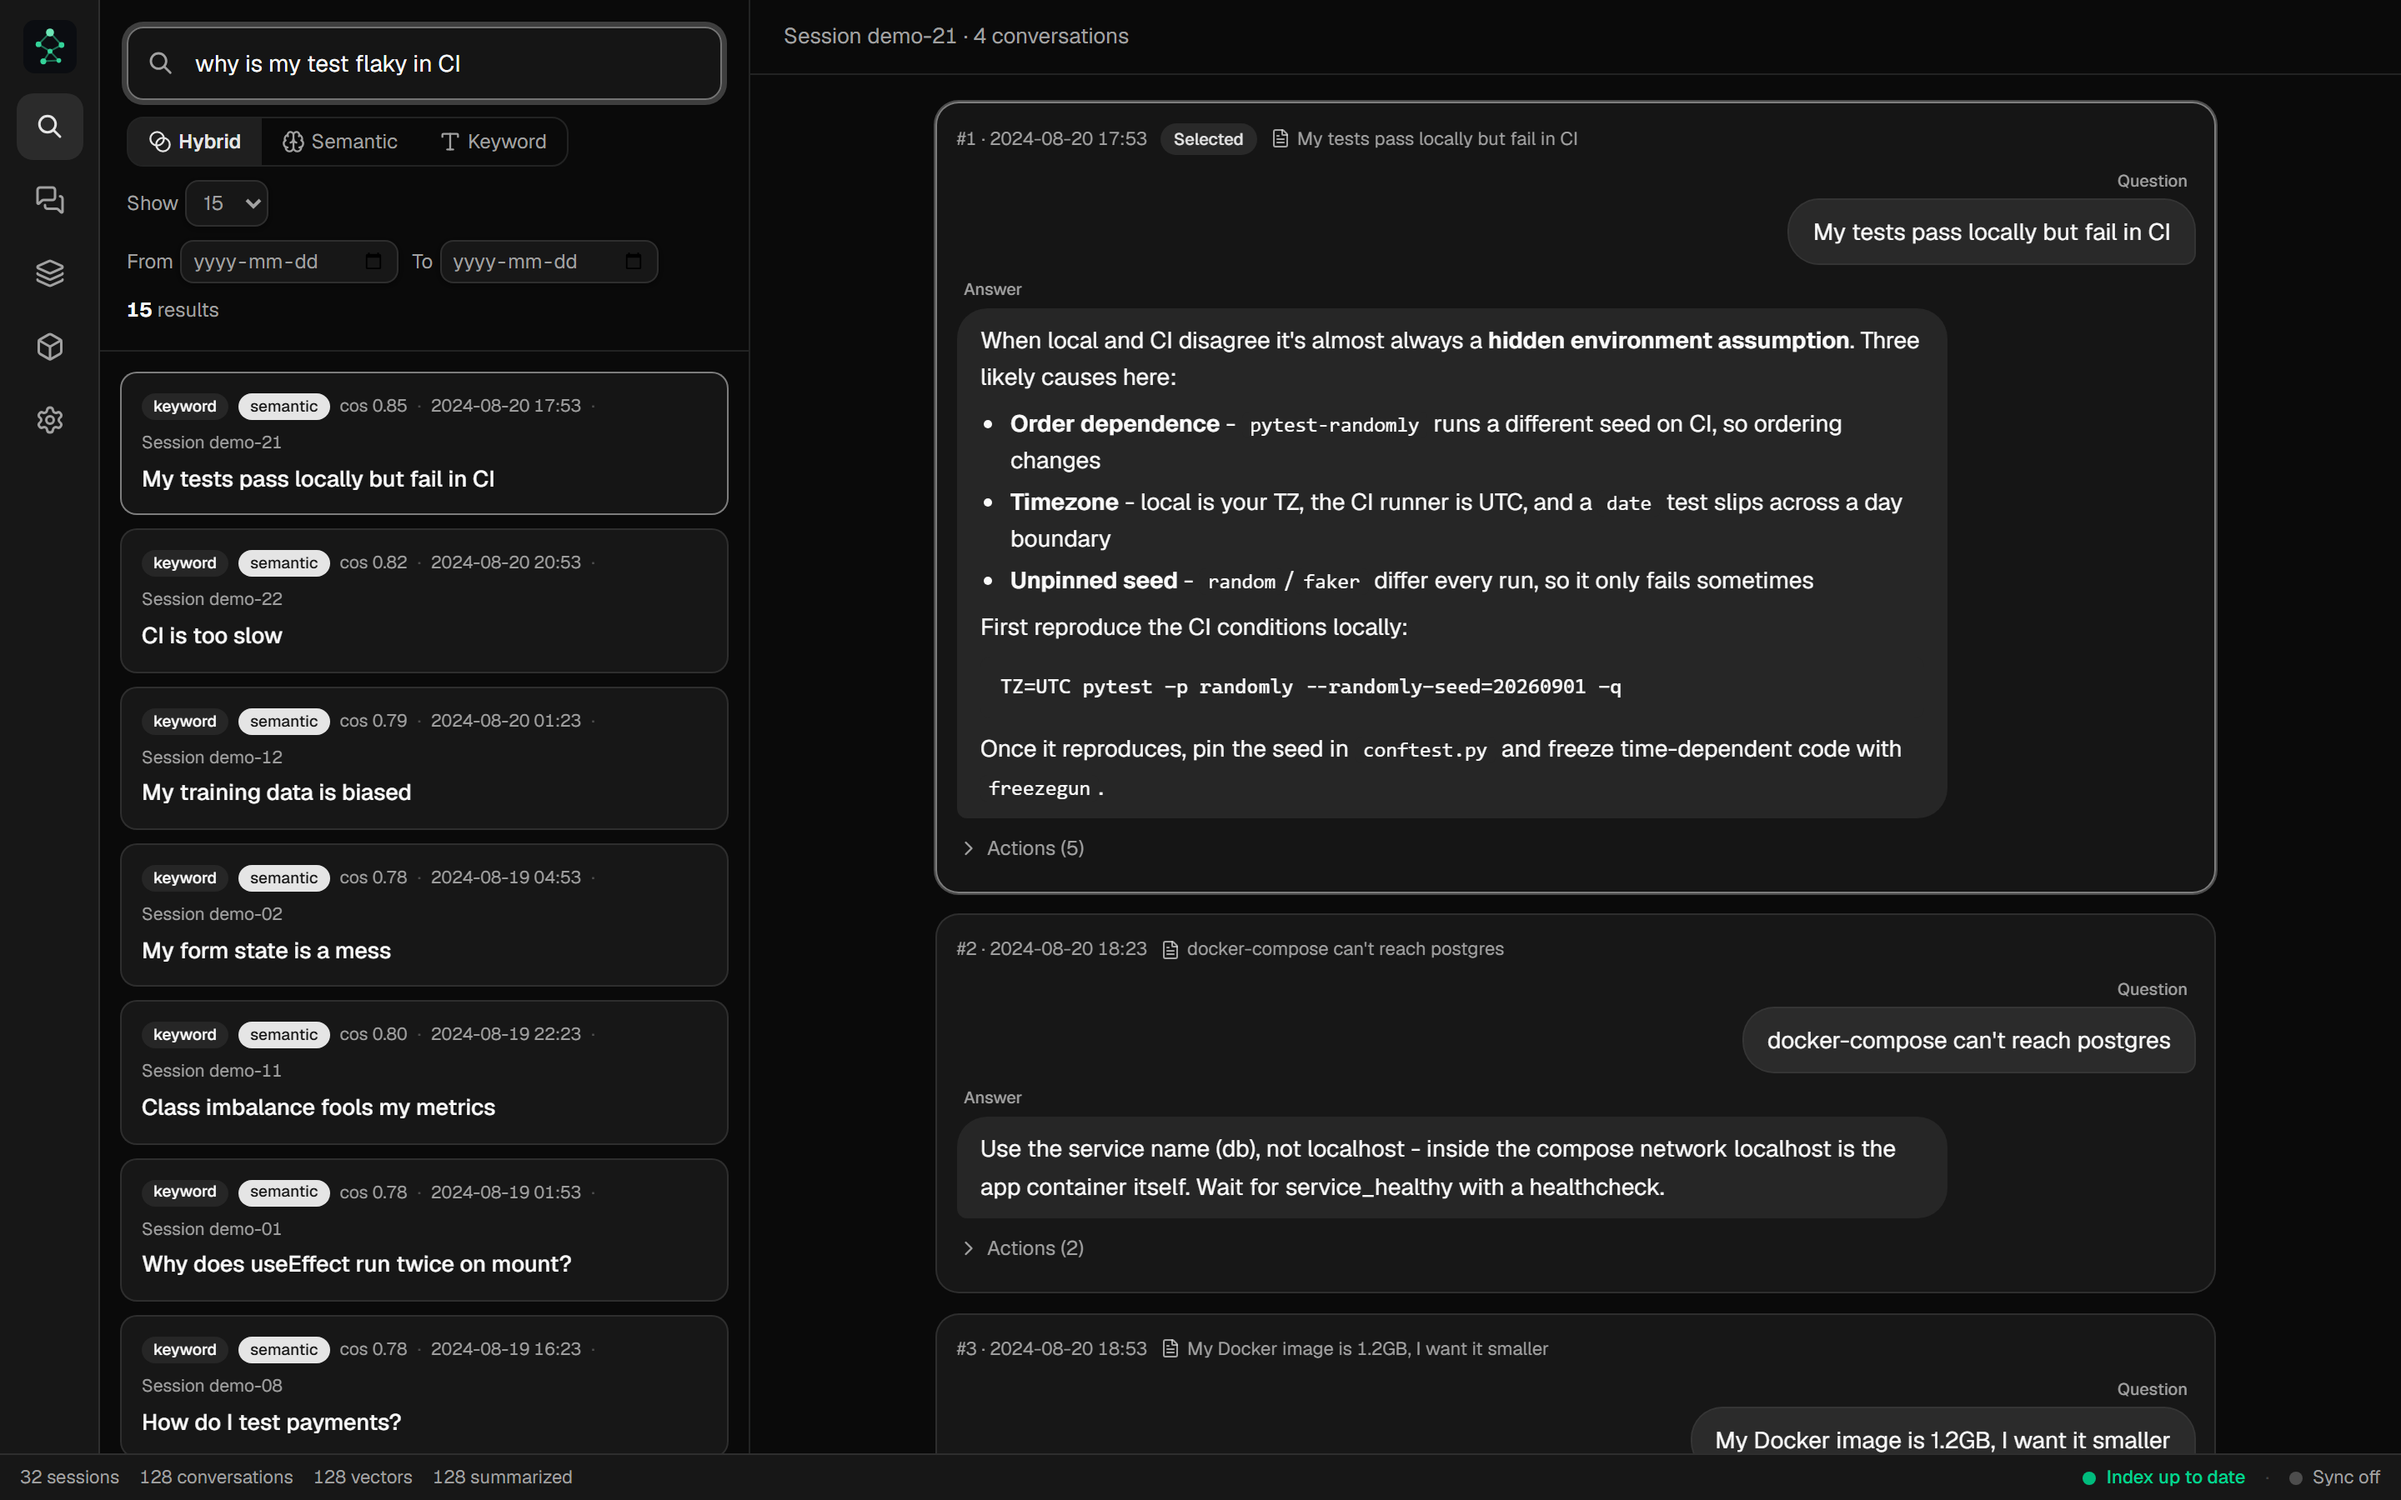
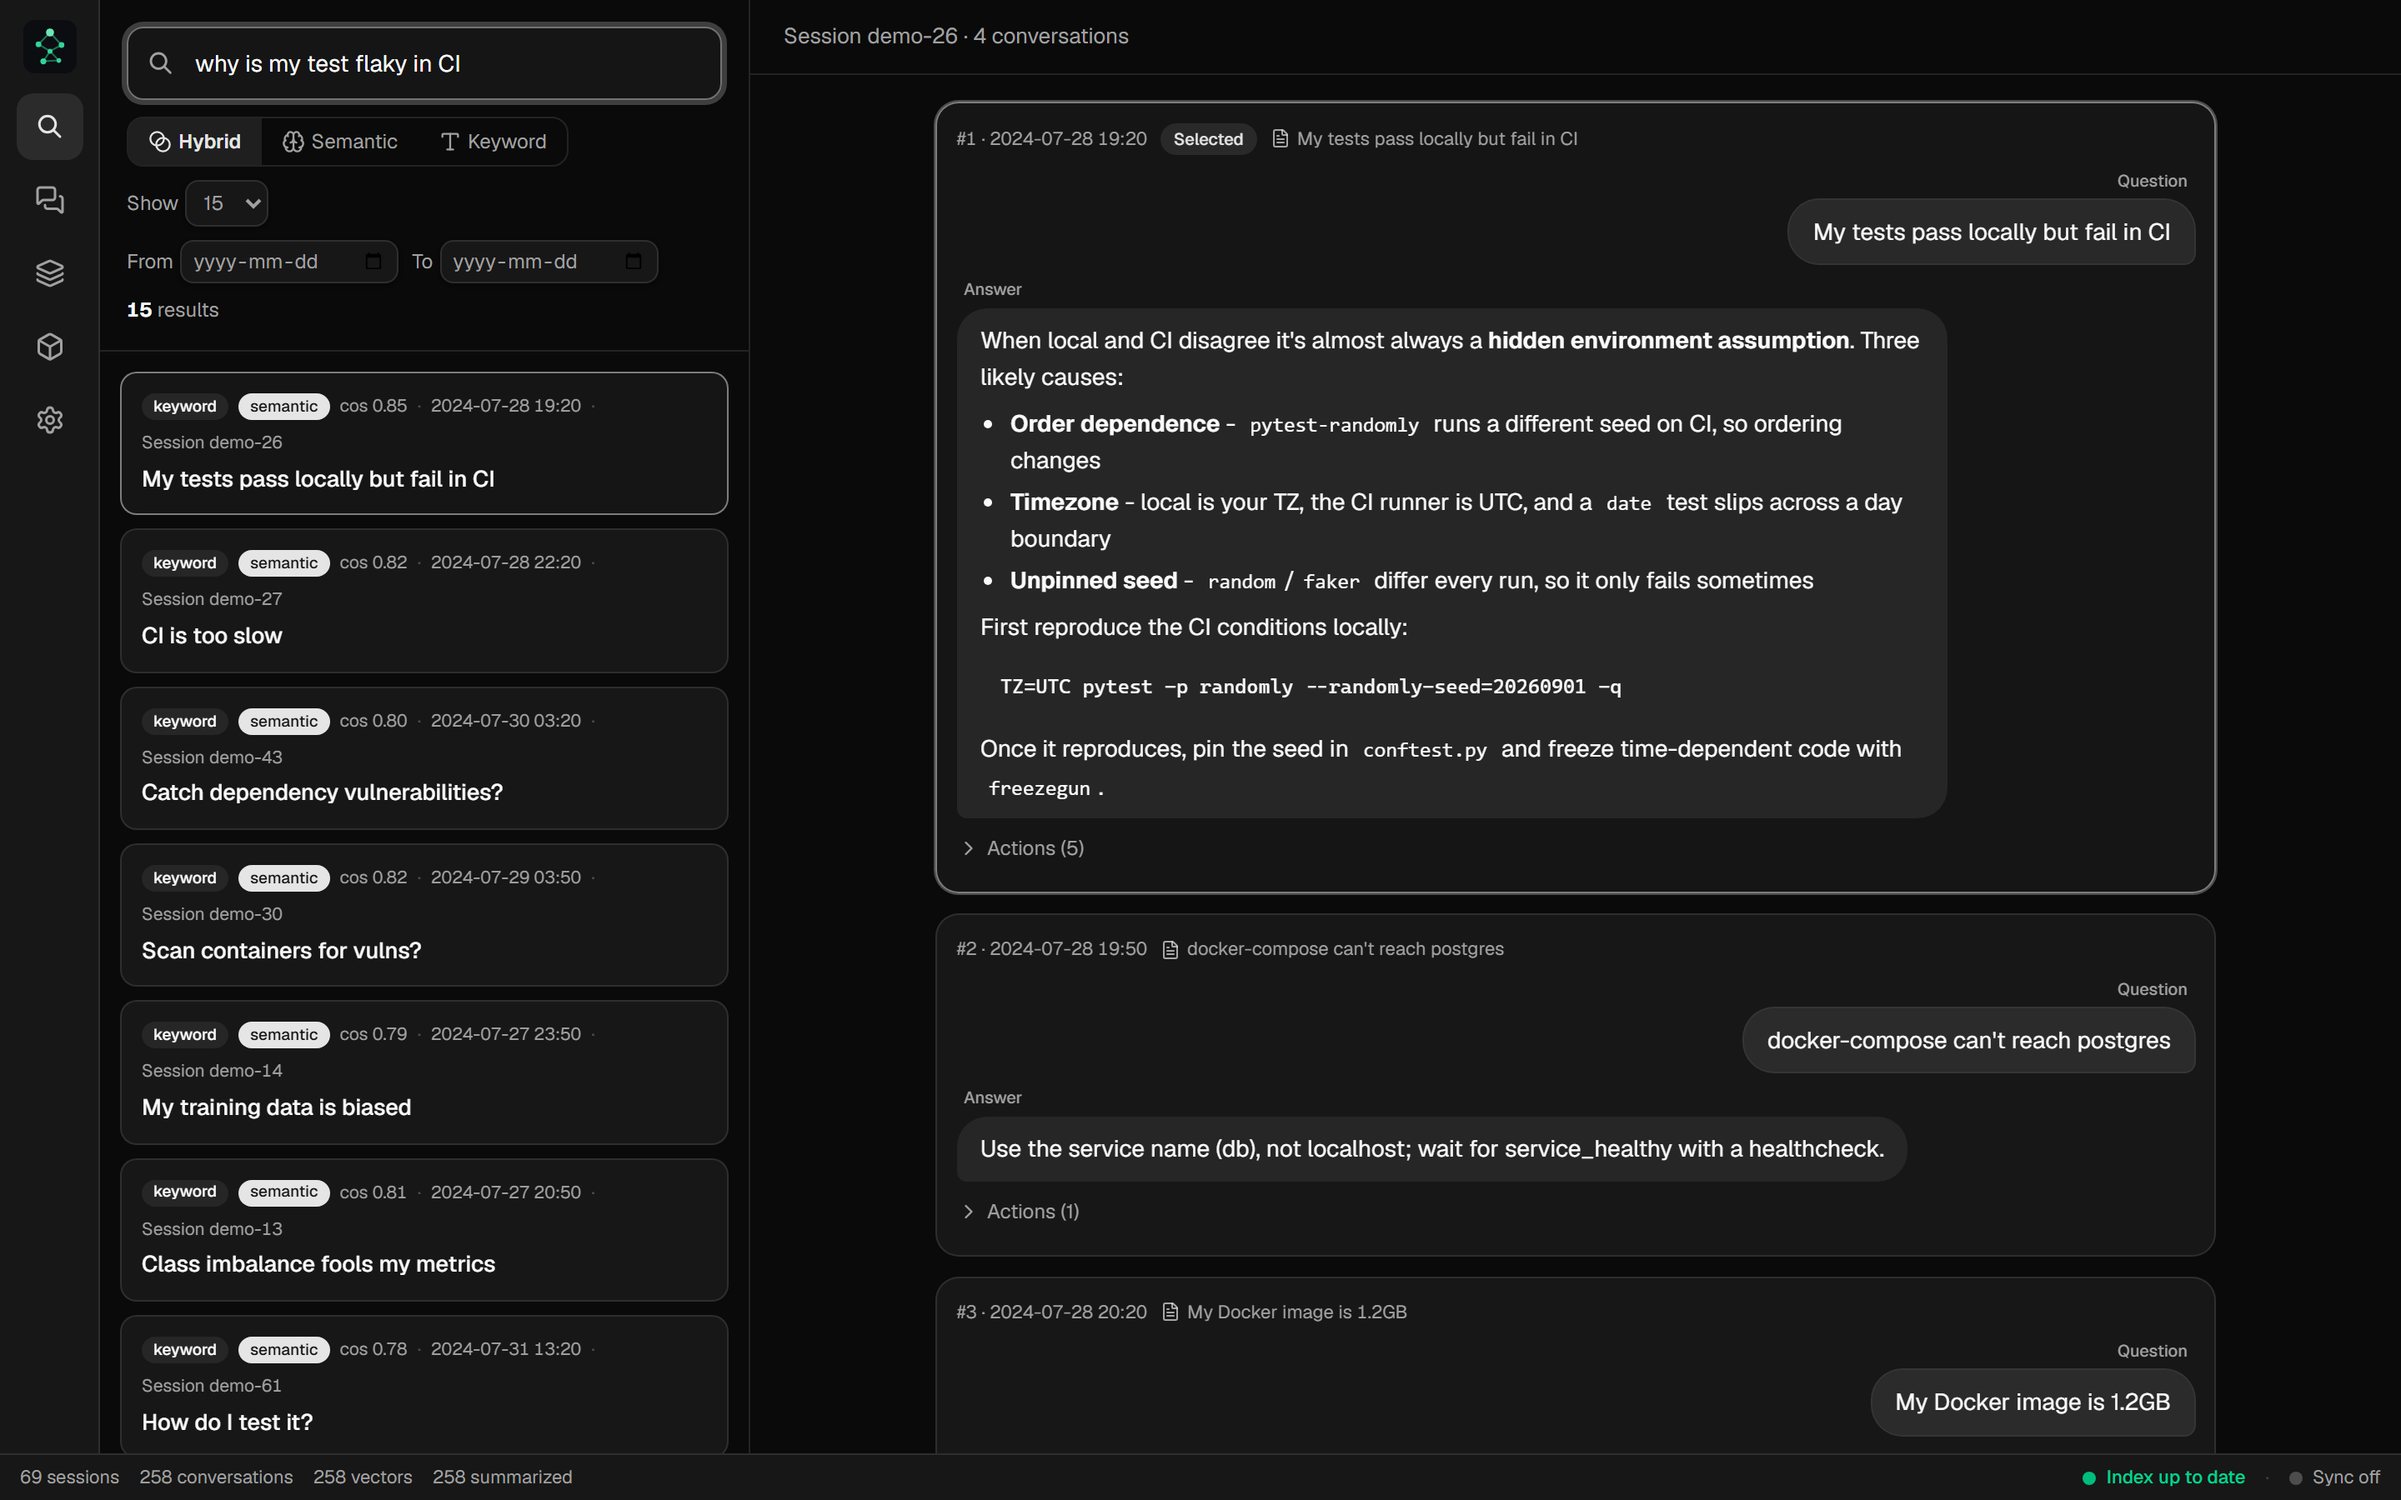
docs(readme): 영문 회전 GIF·스크린샷 + 설치 섹션 정리(한/영)
- 영문 지도를 회전 GIF(map.gif)로, 16개 프로젝트 258턴 데모(8군집) 재캡처
- 영문 검색·세션 스크린샷도 동일 데이터로 교체
- 설치 섹션을 플랫폼별로 깔끔하게 재구성 + macOS/Linux '아직 테스트 안 됨' 명시(한/영)

diff --git a/README.md b/README.md
@@ -51,7 +51,7 @@ on your own machine and lets you find any of them in a second - by meaning, not 
 **A 3D map of everything you've discussed** - your history clustered into topics you can fly through.
 
 <div align="center">
-  <img src="docs/assets/map.png" alt="Engram's 3D semantic map, with conversations clustered into labeled topics" width="880">
+  <img src="docs/assets/map.gif" alt="Engram's rotating 3D semantic map, with conversations clustered into labeled topics" width="880">
 </div>
 
 **Every session, one click away** - grouped, timestamped, and searchable.
@@ -62,19 +62,28 @@ on your own machine and lets you find any of them in a second - by meaning, not 
 
 ## Download
 
-Get the latest build from the [**Releases**](https://github.com/flyingjoojak/engram/releases) page.
+> **Platform status** — **Windows** is built and verified end to end. **macOS and Linux** builds are produced automatically but **haven't been tested on real hardware yet**, so they may not work smoothly. If something breaks, please [open an issue](https://github.com/flyingjoojak/engram/issues) and I'll fix it.
 
-| Platform | Install |
-|---|---|
-| **Windows** | Download `Engram-Setup-<version>.exe` and run it. First launch → More info → Run anyway (not code-signed yet - it's safe). Prefer no install? Use the portable `.zip` and run `Engram.exe`. |
-| **macOS** | `brew tap flyingjoojak/engram https://github.com/flyingjoojak/engram` → `brew install --cask flyingjoojak/engram/engram`. Update: `brew upgrade --cask engram`. |
-| **Linux** | Download the `.AppImage`, `chmod +x`, run. |
+Builds land on the [**Releases**](https://github.com/flyingjoojak/engram/releases) page.
 
-**First launch:** pick an embedding model (a low-spec option is offered for slower machines). It downloads
-once, then Engram indexes your conversations automatically and keeps up as you chat. Everything runs in the
-background - use the left rail for **Search · Sessions · 3D map · Settings**.
+### 🪟 Windows — recommended · verified
 
-> **“Unknown publisher” warning?** The app isn't code-signed yet (certificates cost hundreds a year). Signing only removes the OS warning - it has nothing to do with safety.
+1. Download `Engram-Setup-<version>.exe` and run it.
+2. If Windows shows a "protected your PC" warning, click **More info → Run anyway**. (It's just because the app isn't code-signed yet - it's safe.)
+3. Prefer no install? Unzip the portable `.zip` and run `Engram.exe`.
+
+### 🍎 macOS — not tested yet
+
+```bash
+brew tap flyingjoojak/engram https://github.com/flyingjoojak/engram
+brew install --cask flyingjoojak/engram/engram
+```
+
+### 🐧 Linux — not tested yet
+
+Download the `.AppImage`, make it executable with `chmod +x`, and run it.
+
+**First launch** — pick an embedding model (a lightweight option is offered for slower machines) and you're set. Engram then indexes your conversations in the background; use the left rail for **Search · Sessions · 3D map · Settings**.
 
 ## How it works
 

diff --git a/README.ko.md b/README.ko.md
@@ -62,19 +62,28 @@
 
 ## 다운로드
 
-[**Releases**](https://github.com/flyingjoojak/engram/releases) 페이지에서 최신 빌드를 받으세요.
+> **플랫폼 지원 현황** — **Windows**는 빌드하고 실제 실행까지 확인했습니다. **macOS·Linux**는 자동 빌드는 되지만 **아직 실기기에서 테스트하지 못했습니다.** 잘 동작하지 않을 수 있으니, 문제가 생기면 [이슈](https://github.com/flyingjoojak/engram/issues)로 알려주시면 고치겠습니다.
 
-| 플랫폼 | 설치 |
-|---|---|
-| **Windows** | `Engram-Setup-<버전>.exe`를 받아 실행. 첫 실행 → 추가 정보 → 실행 (아직 코드 서명 안 됨 - 안전합니다). 설치가 싫으면 포터블 `.zip`을 풀어 `Engram.exe` 실행. |
-| **macOS** | `brew tap flyingjoojak/engram https://github.com/flyingjoojak/engram` → `brew install --cask flyingjoojak/engram/engram`. 업데이트: `brew upgrade --cask engram`. |
-| **Linux** | `.AppImage`를 받아 `chmod +x` 후 실행. |
+최신 빌드는 [**Releases**](https://github.com/flyingjoojak/engram/releases)에 올라옵니다.
 
-**첫 실행:** 임베딩 모델을 하나 고릅니다(느린 기기는 저사양 옵션 제공). 한 번 내려받은 뒤
-Engram이 대화를 자동으로 색인하고, 이후 대화가 쌓일 때마다 따라갑니다. 전부 백그라운드에서 돌고,
-왼쪽 레일에서 **검색 · 세션 · 3D 지도 · 설정**을 오갑니다.
+### 🪟 Windows — 권장 · 검증됨
 
-> **“알 수 없는 게시자” 경고?** 아직 코드 서명을 안 해서입니다(인증서 연 수십만 원). 서명은 OS 경고 제거용일 뿐, 안전성과는 무관합니다.
+1. `Engram-Setup-<버전>.exe` 를 받아 실행합니다.
+2. "Windows의 PC 보호" 경고가 뜨면 **추가 정보 → 실행**. (아직 코드 서명을 안 해서 뜨는 경고일 뿐이며 안전합니다.)
+3. 설치가 싫으면 포터블 `.zip` 을 풀어 `Engram.exe` 를 실행하세요.
+
+### 🍎 macOS — 아직 테스트 안 됨
+
+```bash
+brew tap flyingjoojak/engram https://github.com/flyingjoojak/engram
+brew install --cask flyingjoojak/engram/engram
+```
+
+### 🐧 Linux — 아직 테스트 안 됨
+
+`.AppImage` 를 받아 `chmod +x` 로 실행 권한을 준 뒤 실행합니다.
+
+**첫 실행** — 임베딩 모델을 하나 고르면(느린 기기용 경량 옵션 있음) 끝입니다. 이후 Engram이 백그라운드에서 대화를 자동 색인하고, 왼쪽 레일에서 **검색 · 세션 · 3D 지도 · 설정**을 오갑니다.
 
 ## 어떻게 동작하나
 
